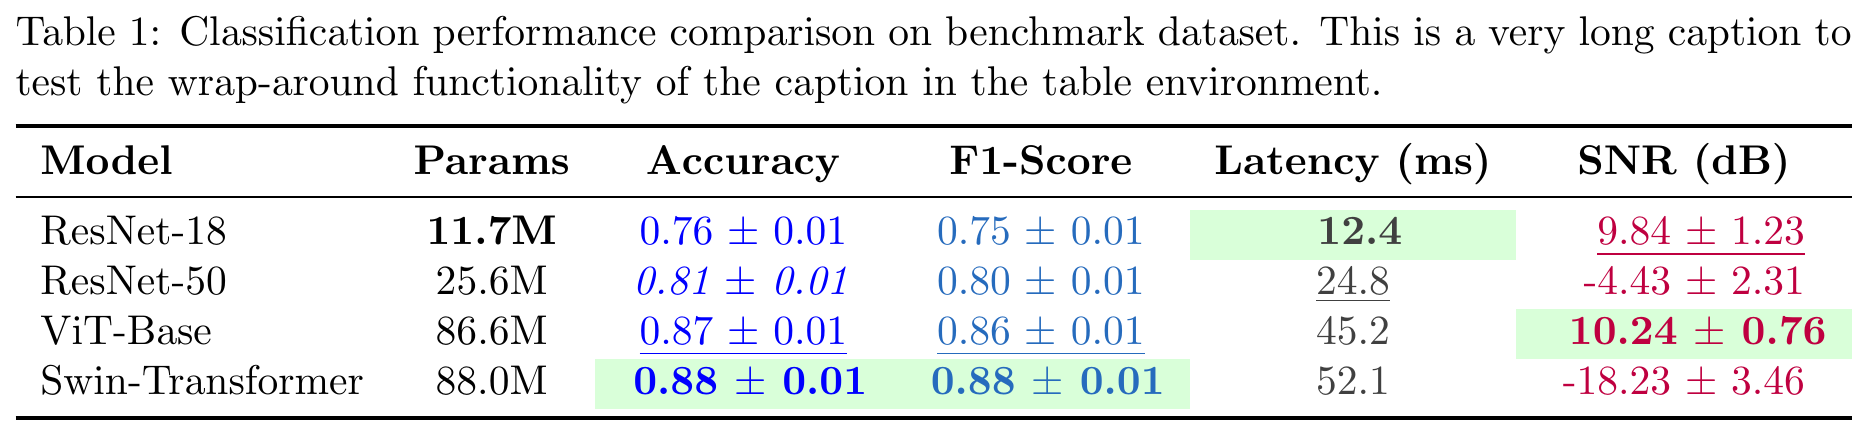
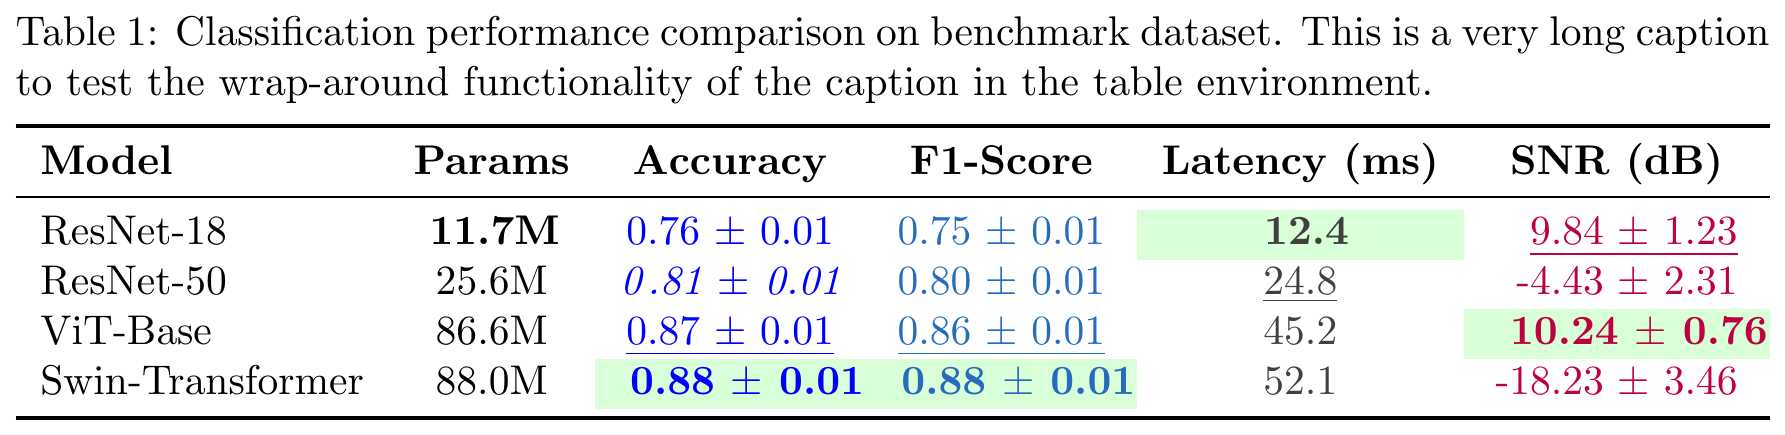
Preserve natural unstyled font widths for styled numbers to prevent column shifting

diff --git a/tests/test_rules.py b/tests/test_rules.py
@@ -110,9 +110,13 @@ def test_highlight_highest_lowest_ignoring_uncertainty(sample_metrics):
     # Model A has lowest accuracy (0.7512) -> underline (Rank 3)
     # Model A has lowest latency (12.4) -> bold (Rank 1 when higher_is_better=False)
     assert (
-        r"Model A & \underline{0.75 \ensuremath{\pm} 0.01} & \textbf{12.4} \\" in result
+        r"Model A & \underline{0.75 \ensuremath{\pm} 0.01} & \phantom{12}\llap{\textbf{12}}\rlap{\textbf{.4}}\phantom{.4} \\"
+        in result
     )
-    assert r"Model B & \textbf{0.89 \ensuremath{\pm} 0.01} & 24.8 \\" in result
+    assert (
+        r"Model B & \phantom{0}\llap{\textbf{0}}\rlap{\textbf{.89 \ensuremath{\pm} 0.01}}\phantom{.89 \ensuremath{\pm} 0.01} & 24.8 \\"
+        in result
+    )
     assert r"Model C & 0.81 \ensuremath{\pm} 0.01 & 45.2 \\" in result
 
 
@@ -167,8 +171,10 @@ def test_multiple_groups_per_cell(sample_metrics):
     # Model B is highest in col_acc (gets bold, 3 decimals) AND in best_model (gets ForestGreen and italic)
     assert "Model A & 0.751 \\\\" in result
     assert (
-        r"Model B & \textcolor{ForestGreen}{\textbf{\textit{0.886}}} \\" in result
-        or r"Model B & \textcolor{ForestGreen}{\textit{\textbf{0.886}}} \\" in result
+        r"Model B & \textcolor{ForestGreen}{\phantom{0}\llap{\textbf{\textit{0}}}\rlap{\textbf{\textit{.886}}}\phantom{.886}} \\"
+        in result
+        or r"Model B & \textcolor{ForestGreen}{\phantom{0}\llap{\textit{\textbf{0}}}\rlap{\textit{\textbf{.886}}}\phantom{.886}} \\"
+        in result
     )
     assert "Model C & 0.812 \\\\" in result
 
@@ -191,7 +197,10 @@ def test_pipe_group_syntax(sample_metrics):
     result = renderer.render(template)
 
     assert r"Model A & 0.75 \ensuremath{\pm} 0.01 \\" in result
-    assert r"Model B & \textbf{0.89 \ensuremath{\pm} 0.01} \\" in result
+    assert (
+        r"Model B & \phantom{0}\llap{\textbf{0}}\rlap{\textbf{.89 \ensuremath{\pm} 0.01}}\phantom{.89 \ensuremath{\pm} 0.01} \\"
+        in result
+    )
 
 
 def test_end_to_end_rules_file(tmp_path: Path):
@@ -241,11 +250,11 @@ groups:
     )
 
     assert (
-        r"M1 & 0.70 \ensuremath{\pm} 0.01 & \textcolor{darkgray}{\textbf{10.0}} \\"
+        r"M1 & 0.70 \ensuremath{\pm} 0.01 & \textcolor{darkgray}{\phantom{10}\llap{\textbf{10}}\rlap{\textbf{.0}}\phantom{.0}} \\"
         in result
     )
     assert (
-        r"M2 & \textbf{0.90 \ensuremath{\pm} 0.02} & \textcolor{darkgray}{30.0} \\"
+        r"M2 & \phantom{0}\llap{\textbf{0}}\rlap{\textbf{.90 \ensuremath{\pm} 0.02}}\phantom{.90 \ensuremath{\pm} 0.02} & \textcolor{darkgray}{30.0} \\"
         in result
     )
     assert out_file.exists()
@@ -340,7 +349,10 @@ def test_rank_based_bold_and_higher_is_better(sample_metrics):
     # Model A has lowest latency (12.4) -> underline
     assert r"Model A & 0.75 & \underline{12.4} \\" in result
     assert r"Model B & 0.89 & 24.8 \\" in result
-    assert r"Model C & \textbf{0.81} & 45.2 \\" in result
+    assert (
+        r"Model C & \phantom{0}\llap{\textbf{0}}\rlap{\textbf{.81}}\phantom{.81} & 45.2 \\"
+        in result
+    )
 
 
 def test_rank_based_multiple_ranks_and_colors(sample_metrics):
@@ -370,7 +382,10 @@ def test_rank_based_multiple_ranks_and_colors(sample_metrics):
     # Model B is Rank 1 -> bold & cell_color green!20
     # Model C is Rank 2 -> underline & cell_color yellow!15
     assert r"Model A & 0.75 \\" in result
-    assert r"Model B & \cellcolor{green!20} \textbf{0.89} \\" in result
+    assert (
+        r"Model B & \cellcolor{green!20} \phantom{0}\llap{\textbf{0}}\rlap{\textbf{.89}}\phantom{.89} \\"
+        in result
+    )
     assert r"Model C & \cellcolor{yellow!15} \underline{0.81} \\" in result
 
 
@@ -418,8 +433,14 @@ def test_rounded_value_ranking_ties():
     # Both Model A (0.88) and Model B (0.88) get bold
     # Model C (0.85) gets underline
     # In error (lower is better, 1 decimal): Model A (12.4) and Model B (12.4) both get bold!
-    assert r"Model A & \textbf{0.88} & \textbf{12.4} \\" in result
-    assert r"Model B & \textbf{0.88} & \textbf{12.4} \\" in result
+    assert (
+        r"Model A & \phantom{0}\llap{\textbf{0}}\rlap{\textbf{.88}}\phantom{.88} & \phantom{12}\llap{\textbf{12}}\rlap{\textbf{.4}}\phantom{.4} \\"
+        in result
+    )
+    assert (
+        r"Model B & \phantom{0}\llap{\textbf{0}}\rlap{\textbf{.88}}\phantom{.88} & \phantom{12}\llap{\textbf{12}}\rlap{\textbf{.4}}\phantom{.4} \\"
+        in result
+    )
     assert r"Model C & \underline{0.85} & 24.8 \\" in result
 
 
@@ -462,9 +483,15 @@ def test_rank_based_italic_styling():
 
     # acc: M1 (0.95) -> bold, M2 (0.90) -> underline, M3 (0.85) -> italic
     # loss: M1 (0.10, lowest) -> italic
-    assert r"M1 & \textbf{0.95} & \textit{0.10} \\" in result
+    assert (
+        r"M1 & \phantom{0}\llap{\textbf{0}}\rlap{\textbf{.95}}\phantom{.95} & \phantom{0}\llap{\textit{0}}\rlap{\textit{.10}}\phantom{.10} \\"
+        in result
+    )
     assert r"M2 & \underline{0.90} & 0.20 \\" in result
-    assert r"M3 & \textit{0.85} & 0.30 \\" in result
+    assert (
+        r"M3 & \phantom{0}\llap{\textit{0}}\rlap{\textit{.85}}\phantom{.85} & 0.30 \\"
+        in result
+    )
 
 
 def test_align_column_numbers_with_minus_and_positives():
@@ -577,3 +604,52 @@ def test_opt_out_align_numbers_via_group_rule():
     # g_normal opted in: M2.col_b is \hphantom{-}5.0
     assert r"M1 & -1.2 & -5.0 \\" in result
     assert r"M2 & 1.2 & \hphantom{-}5.0 \\" in result
+
+
+def test_style_width_alignment_bold_italic_underline():
+    """Verify that bold and italic styles preserve natural unstyled widths so column numbers don't shift."""
+    metrics = MetricsStore(
+        {
+            "M1": {"snr_mean": 9.84, "snr_std": 1.23},
+            "M2": {"snr_mean": -4.43, "snr_std": 2.31},
+            "M3": {"snr_mean": 10.24, "snr_std": 0.76},
+            "M4": {"snr_mean": -18.23, "snr_std": 3.46},
+        }
+    )
+
+    rules = RulesConfig.from_dict(
+        {
+            "groups": {
+                "snr": {
+                    "higher_is_better": True,
+                    "bold": 1,
+                    "underline": 2,
+                    "decimals": 2,
+                }
+            }
+        }
+    )
+
+    template = (
+        "\\begin{tabular}{c}\n"
+        "M1 & [snr]{M1.snr_mean +- M1.snr_std} \\\\\n"
+        "M2 & [snr]{M2.snr_mean +- M2.snr_std} \\\\\n"
+        "M3 & [snr]{M3.snr_mean +- M3.snr_std} \\\\\n"
+        "M4 & [snr]{M4.snr_mean +- M4.snr_std} \\\\\n"
+        "\\end{tabular}"
+    )
+
+    renderer = TemplateRenderer(metrics, rules=rules)
+    result = renderer.render(template)
+
+    # M1 (Rank 2) -> underline (does not change font metrics, so standard underline)
+    assert r"M1 & \hphantom{-0}\underline{9.84 \ensuremath{\pm} 1.23} \\" in result
+    # M2 -> normal negative with phantom zero
+    assert r"M2 & \hphantom{0}-4.43 \ensuremath{\pm} 2.31 \\" in result
+    # M3 (Rank 1) -> bold with zero-width overlay around dot and unstyled phantom widths
+    assert (
+        r"M3 & \hphantom{-}\phantom{10}\llap{\textbf{10}}\rlap{\textbf{.24 \ensuremath{\pm} 0.76}}\phantom{.24 \ensuremath{\pm} 0.76} \\"
+        in result
+    )
+    # M4 -> normal negative
+    assert r"M4 & -18.23 \ensuremath{\pm} 3.46 \\" in result

diff --git a/examples/table_output.tex b/examples/table_output.tex
@@ -8,12 +8,12 @@ This is a very long caption to test the wrap-around functionality of the caption
 \label{tab:model_comparison}
 \begin{tabular}{lccccc}
 \toprule
-\textbf{Model}   & \textbf{Params} & \textbf{Accuracy}                                                          & \textbf{F1-Score}                                                              & \textbf{Latency (ms)}                                    & \textbf{SNR (dB)} \\
+\textbf{Model}   & \textbf{Params}                                                & \textbf{Accuracy}                                                                                                                               & \textbf{F1-Score}                                                                                                                                   & \textbf{Latency (ms)}                                                                                   & \textbf{SNR (dB)} \\
 \midrule
-ResNet-18        & \textbf{11.7M}  & \textcolor{blue}{0.76 \ensuremath{\pm} 0.01}                               & \textcolor{NavyBlue}{0.75 \ensuremath{\pm} 0.01}                               & \cellcolor{green!15} \textcolor{darkgray}{\textbf{12.4}} & \hphantom{-0}\textcolor{purple}{\underline{9.84 \ensuremath{\pm} 1.23}} \\
-ResNet-50        & 25.6M           & \textcolor{blue}{\textit{0.81 \ensuremath{\pm} 0.01}}                      & \textcolor{NavyBlue}{0.80 \ensuremath{\pm} 0.01}                               & \textcolor{darkgray}{\underline{24.8}}                   & \hphantom{0}\textcolor{purple}{-4.43 \ensuremath{\pm} 2.31} \\
-ViT-Base         & 86.6M           & \textcolor{blue}{\underline{0.87 \ensuremath{\pm} 0.01}}                   & \textcolor{NavyBlue}{\underline{0.86 \ensuremath{\pm} 0.01}}                   & \textcolor{darkgray}{45.2}                               & \cellcolor{green!15} \hphantom{-}\textcolor{purple}{\textbf{10.24 \ensuremath{\pm} 0.76}} \\
-Swin-Transformer & 88.0M           & \cellcolor{green!15} \textcolor{blue}{\textbf{0.88 \ensuremath{\pm} 0.01}} & \cellcolor{green!15} \textcolor{NavyBlue}{\textbf{0.88 \ensuremath{\pm} 0.01}} & \textcolor{darkgray}{52.1}                               & \textcolor{purple}{-18.23 \ensuremath{\pm} 3.46} \\
+ResNet-18        & \phantom{11}\llap{\textbf{11}}\rlap{\textbf{.7M}}\phantom{.7M} & \textcolor{blue}{0.76 \ensuremath{\pm} 0.01}                                                                                                    & \textcolor{NavyBlue}{0.75 \ensuremath{\pm} 0.01}                                                                                                    & \cellcolor{green!15} \textcolor{darkgray}{\phantom{12}\llap{\textbf{12}}\rlap{\textbf{.4}}\phantom{.4}} & \hphantom{-0}\textcolor{purple}{\underline{9.84 \ensuremath{\pm} 1.23}} \\
+ResNet-50        & 25.6M                                                          & \textcolor{blue}{\phantom{0}\llap{\textit{0}}\rlap{\textit{.81 \ensuremath{\pm} 0.01}}\phantom{.81 \ensuremath{\pm} 0.01}}                      & \textcolor{NavyBlue}{0.80 \ensuremath{\pm} 0.01}                                                                                                    & \textcolor{darkgray}{\underline{24.8}}                                                                  & \hphantom{0}\textcolor{purple}{-4.43 \ensuremath{\pm} 2.31} \\
+ViT-Base         & 86.6M                                                          & \textcolor{blue}{\underline{0.87 \ensuremath{\pm} 0.01}}                                                                                        & \textcolor{NavyBlue}{\underline{0.86 \ensuremath{\pm} 0.01}}                                                                                        & \textcolor{darkgray}{45.2}                                                                              & \cellcolor{green!15} \hphantom{-}\textcolor{purple}{\phantom{10}\llap{\textbf{10}}\rlap{\textbf{.24 \ensuremath{\pm} 0.76}}\phantom{.24 \ensuremath{\pm} 0.76}} \\
+Swin-Transformer & 88.0M                                                          & \cellcolor{green!15} \textcolor{blue}{\phantom{0}\llap{\textbf{0}}\rlap{\textbf{.88 \ensuremath{\pm} 0.01}}\phantom{.88 \ensuremath{\pm} 0.01}} & \cellcolor{green!15} \textcolor{NavyBlue}{\phantom{0}\llap{\textbf{0}}\rlap{\textbf{.88 \ensuremath{\pm} 0.01}}\phantom{.88 \ensuremath{\pm} 0.01}} & \textcolor{darkgray}{52.1}                                                                              & \textcolor{purple}{-18.23 \ensuremath{\pm} 3.46} \\
 \bottomrule
 \end{tabular}
 \end{threeparttable}

diff --git a/src/latex_table_generator/template.py b/src/latex_table_generator/template.py
@@ -11,6 +11,7 @@ from typing import Any, Mapping
 from latex_table_generator.formatter import (
     _parse_format_spec,
     apply_latex_cell_color,
+    apply_latex_color,
     apply_latex_styles,
     format_uncertainty,
     format_value,
@@ -644,8 +645,75 @@ class TemplateRenderer:
                 if st not in styles:
                     styles.append(st)
 
+        # Check if number alignment is active and should preserve natural font width
+        opt_out_align = not self.align_numbers
+        if not opt_out_align:
+            if self.rules.default_rule.align_numbers is False:
+                opt_out_align = True
+            else:
+                for g in item.groups:
+                    if self.rules.get_rule(g).align_numbers is False:
+                        opt_out_align = True
+                        break
+
+        font_styles = [s for s in styles if s in ("bold", "textbf", "italic", "textit")]
+        has_font_style = bool(font_styles)
+
         # 5. Format string
-        if item.is_uncertainty:
+        if (
+            not opt_out_align
+            and has_font_style
+            and (item.is_uncertainty or not item.is_plain_text)
+        ):
+            # Format unstyled base text to determine natural zero-width alignment boundaries
+            if item.is_uncertainty:
+                raw_text = format_uncertainty(
+                    mean_val=item.val1,
+                    std_val=item.val2,
+                    decimals=decimals,
+                    format_spec=item.format_spec,
+                    pm_symbol=self.pm_symbol,
+                    extra_styles=None,
+                    color=None,
+                    cell_color=None,
+                    auto_scale=auto_scale,
+                    scale=scale,
+                    unit=unit,
+                )
+            else:
+                raw_text = format_value(
+                    val=item.val1,
+                    decimals=decimals,
+                    format_spec=item.format_spec,
+                    extra_styles=None,
+                    color=None,
+                    cell_color=None,
+                    auto_scale=auto_scale,
+                    scale=scale,
+                    unit=unit,
+                )
+
+            non_font_styles = [s for s in styles if s not in font_styles]
+
+            if "." in raw_text:
+                dot_idx = raw_text.find(".")
+                left = raw_text[:dot_idx]
+                right = raw_text[dot_idx:]
+                styled_left = apply_latex_styles(left, styles=font_styles)
+                styled_right = apply_latex_styles(right, styles=font_styles)
+                content = (
+                    f"\\phantom{{{left}}}\\llap{{{styled_left}}}"
+                    f"\\rlap{{{styled_right}}}\\phantom{{{right}}}"
+                )
+            else:
+                styled_left = apply_latex_styles(raw_text, styles=font_styles)
+                content = f"\\phantom{{{raw_text}}}\\llap{{{styled_left}}}"
+
+            if non_font_styles:
+                content = apply_latex_styles(content, styles=non_font_styles)
+            if color:
+                content = apply_latex_color(content, color)
+        elif item.is_uncertainty:
             content = format_uncertainty(
                 mean_val=item.val1,
                 std_val=item.val2,

diff --git a/tests/test_auto_scale.py b/tests/test_auto_scale.py
@@ -124,7 +124,7 @@ def test_group_rules_with_auto_scale_and_units():
     result = renderer.render(template)
 
     assert (
-        r"ResNet-18 & \textbf{11.7M params} & \hphantom{0}1.82GFLOPs & 12.0\ensuremath{\mu}s \\"
+        r"ResNet-18 & \phantom{11}\llap{\textbf{11}}\rlap{\textbf{.7M params}}\phantom{.7M params} & \hphantom{0}1.82GFLOPs & 12.0\ensuremath{\mu}s \\"
         in result
     )
     assert r"Swin & 88.0M params & 15.40GFLOPs & 52.0\ensuremath{\mu}s \\" in result
